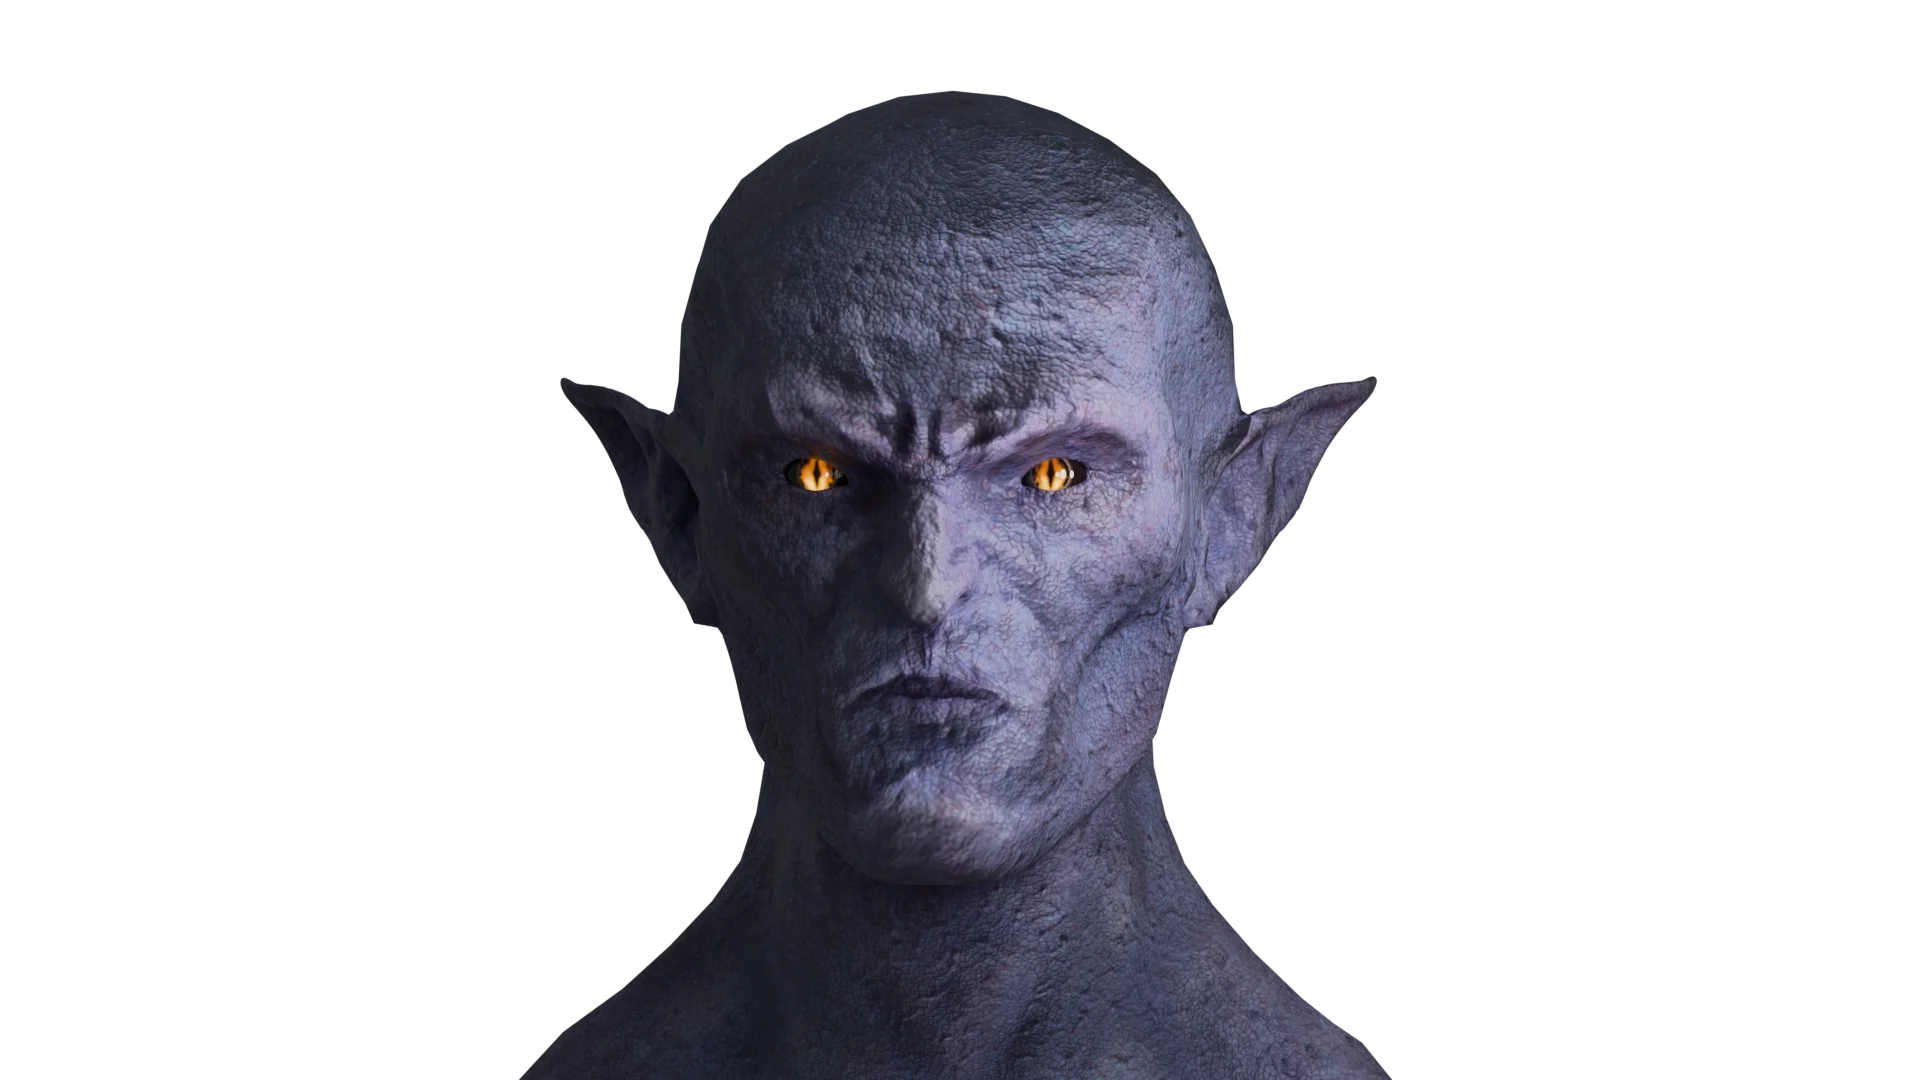
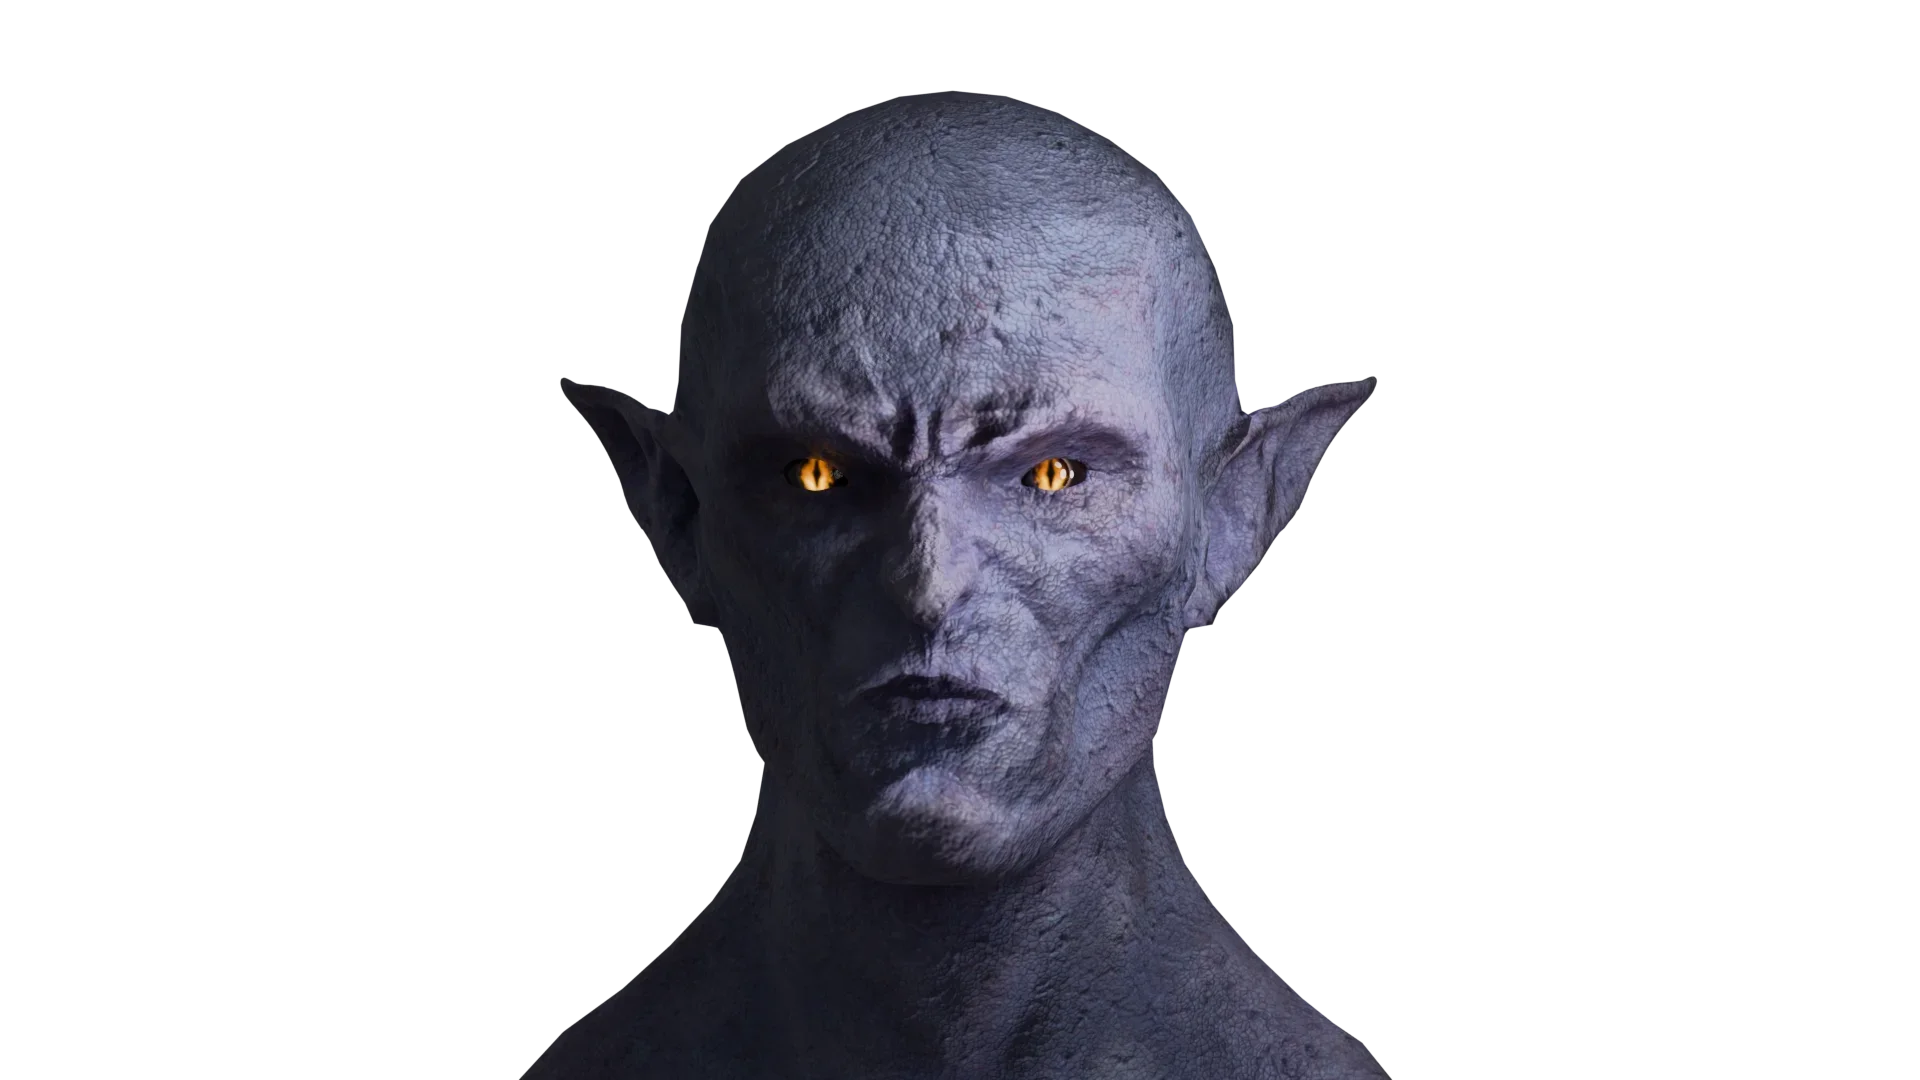
update project

Changed region(s): [[0.4062, 0.0917, 0.625, 0.4583], [0.4375, 0.55, 0.5625, 0.9167], [0.4062, 0.4278, 0.4375, 0.4889]]

diff --git a/src/pages.jsx b/src/pages.jsx
@@ -37,7 +37,7 @@ window.ProjectDetail = function ProjectDetail({ title = "Dike Or Strike", back }
       role: { lbl: "Role", v: "Character Designer · Texturing", desc: "Solo project — narrative-first character design." },
       info2: { lbl: "Type", v: "Solo · 3D Character", desc: "Every visual decision informed by a complete fictional history." },
       info3: { lbl: "Tools", v: "Blender · Substance Painter", desc: "Three expressions (Malice, Sensory Overload, Starvation) via shape keys." },
-      thumbLabels: ["Character render — front", "Character render — alternate lighting", "Mask wireframe topology"],
+      thumbLabels: ["Character — alternate lighting", "Mask wireframe topology", "Mask textured render"],
       thumbCount: 3
     }
   };